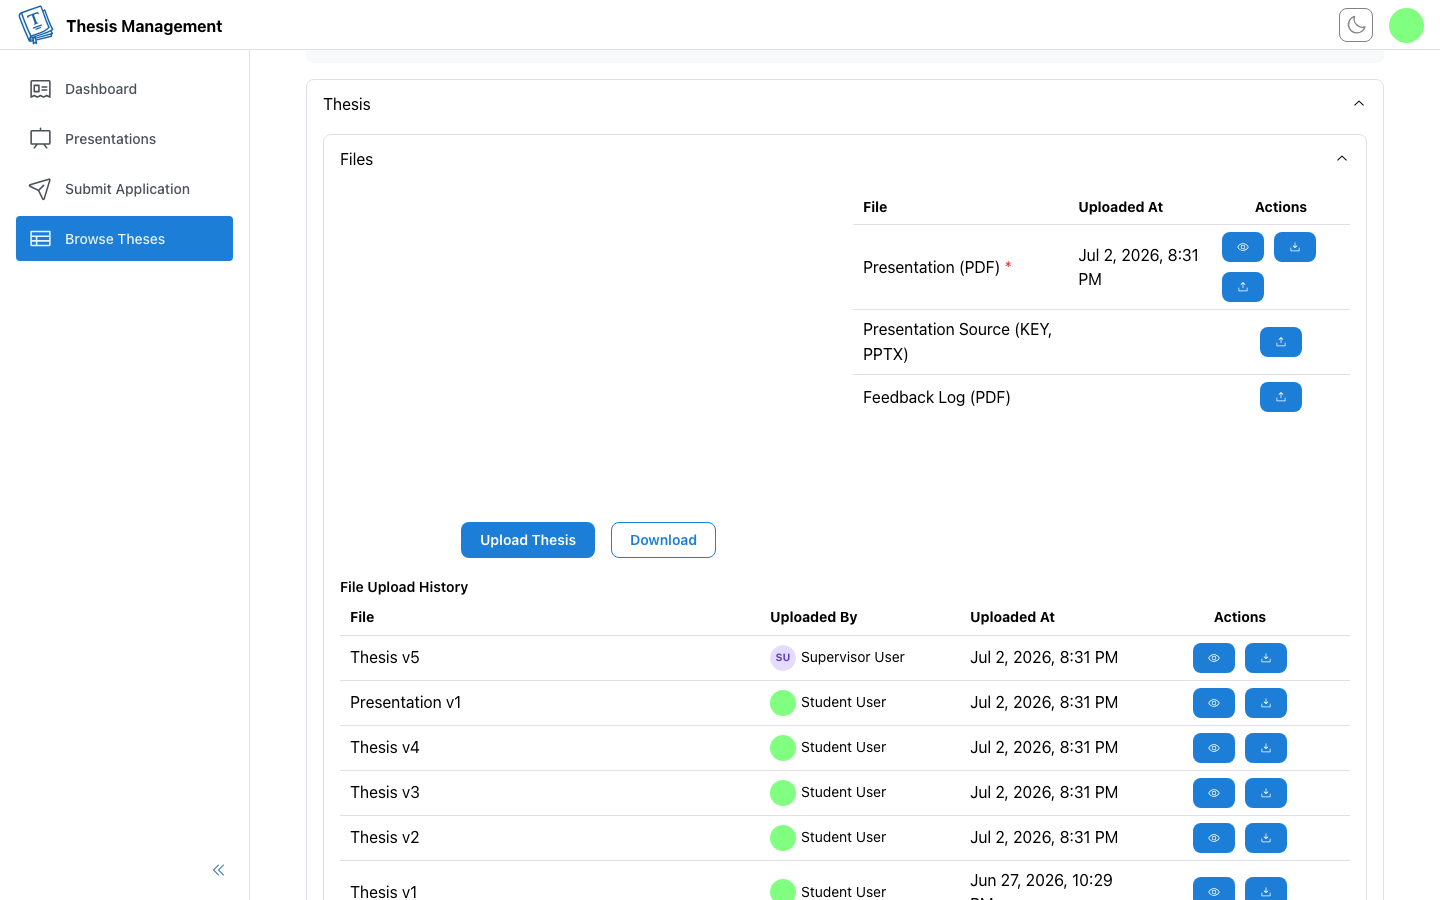
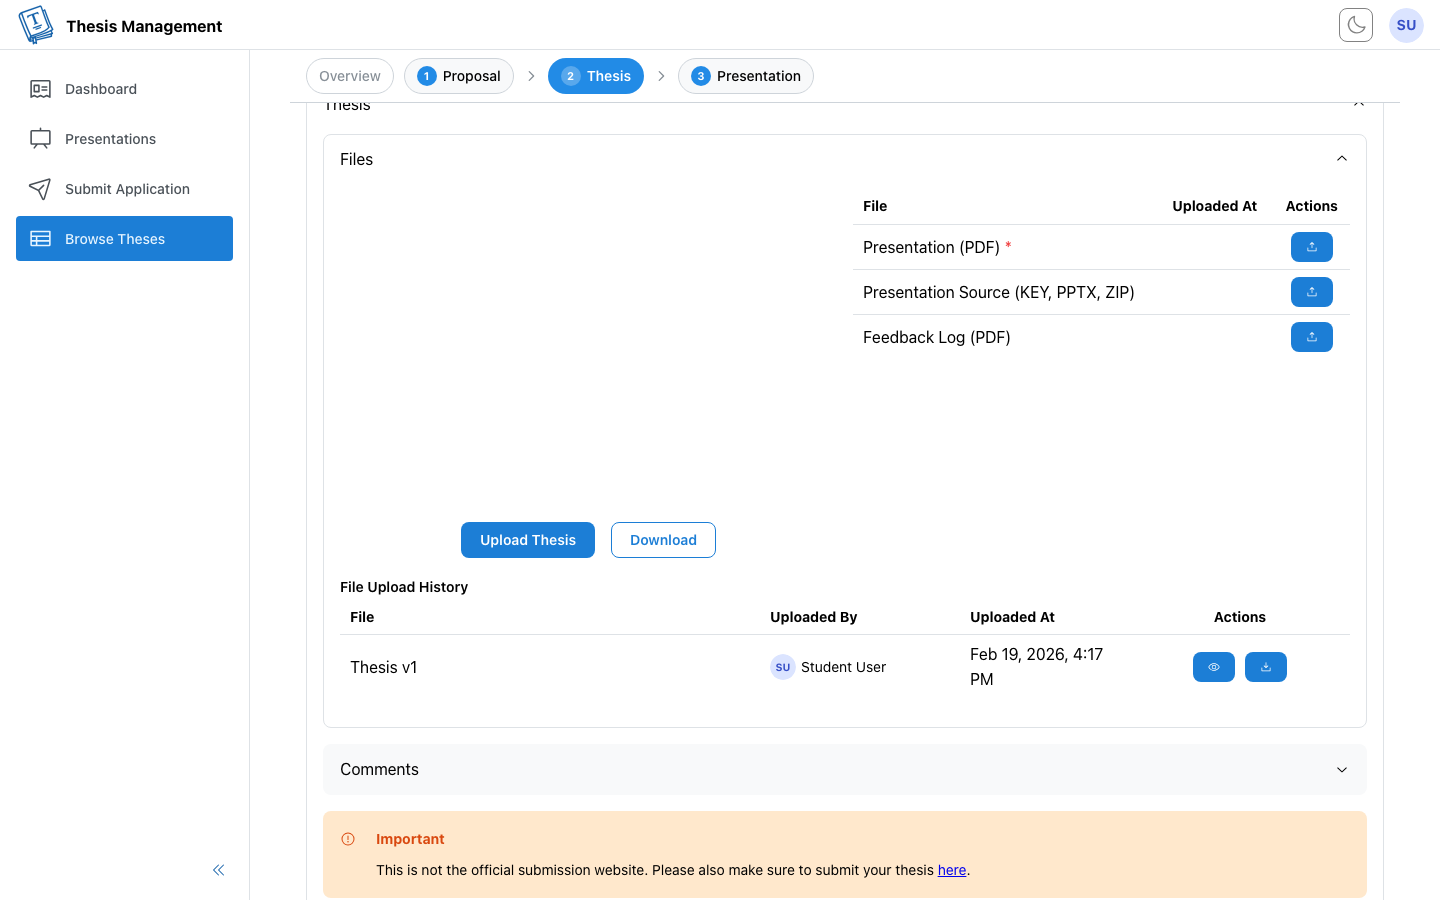
Allow ZIP presentation sources for code-based slide decks

diff --git a/client/src/core/config/global.ts b/client/src/core/config/global.ts
@@ -121,7 +121,7 @@ export const GLOBAL_CONFIG: IGlobalConfig = {
     },
     PRESENTATION_SOURCE: {
       label: 'Presentation Source',
-      description: 'Presentation Source (KEY, PPTX)',
+      description: 'Presentation Source (KEY, PPTX, ZIP)',
       accept: 'any',
       required: false,
     },

diff --git a/server/src/test/java/de/tum/cit/aet/thesis/thesis/controller/ThesisControllerTest.java b/server/src/test/java/de/tum/cit/aet/thesis/thesis/controller/ThesisControllerTest.java
@@ -787,6 +787,32 @@ class ThesisControllerTest extends BaseIntegrationTest {
 		}
 
 		@Test
+		void uploadThesisFile_ZipPresentationSource_Success() throws Exception {
+			UUID thesisId = createTestThesis("Test Thesis");
+
+			MockMultipartFile file = new MockMultipartFile(
+					"file", "slides.zip", "application/zip", "zip content".getBytes()
+			);
+			MockMultipartFile type = new MockMultipartFile(
+					"type", "", MediaType.TEXT_PLAIN_VALUE, "PRESENTATION_SOURCE".getBytes()
+			);
+
+			mockMvc.perform(MockMvcRequestBuilders.multipart("/v2/theses/{thesisId}/files", thesisId)
+							.file(file)
+							.file(type)
+							.header("Authorization", createRandomAdminAuthentication()))
+					.andExpect(status().isOk());
+
+			assertThat(thesisFileRepository.findAll())
+					.singleElement()
+					.satisfies(stored -> {
+						assertThat(stored.getType()).isEqualTo("PRESENTATION_SOURCE");
+						assertThat(stored.getUploadName()).isEqualTo("slides.zip");
+						assertThat(stored.getFilename()).endsWith(".zip");
+					});
+		}
+
+		@Test
 		void getThesisFile_Success() throws Exception {
 			UUID thesisId = createTestThesis("Test Thesis");
 
